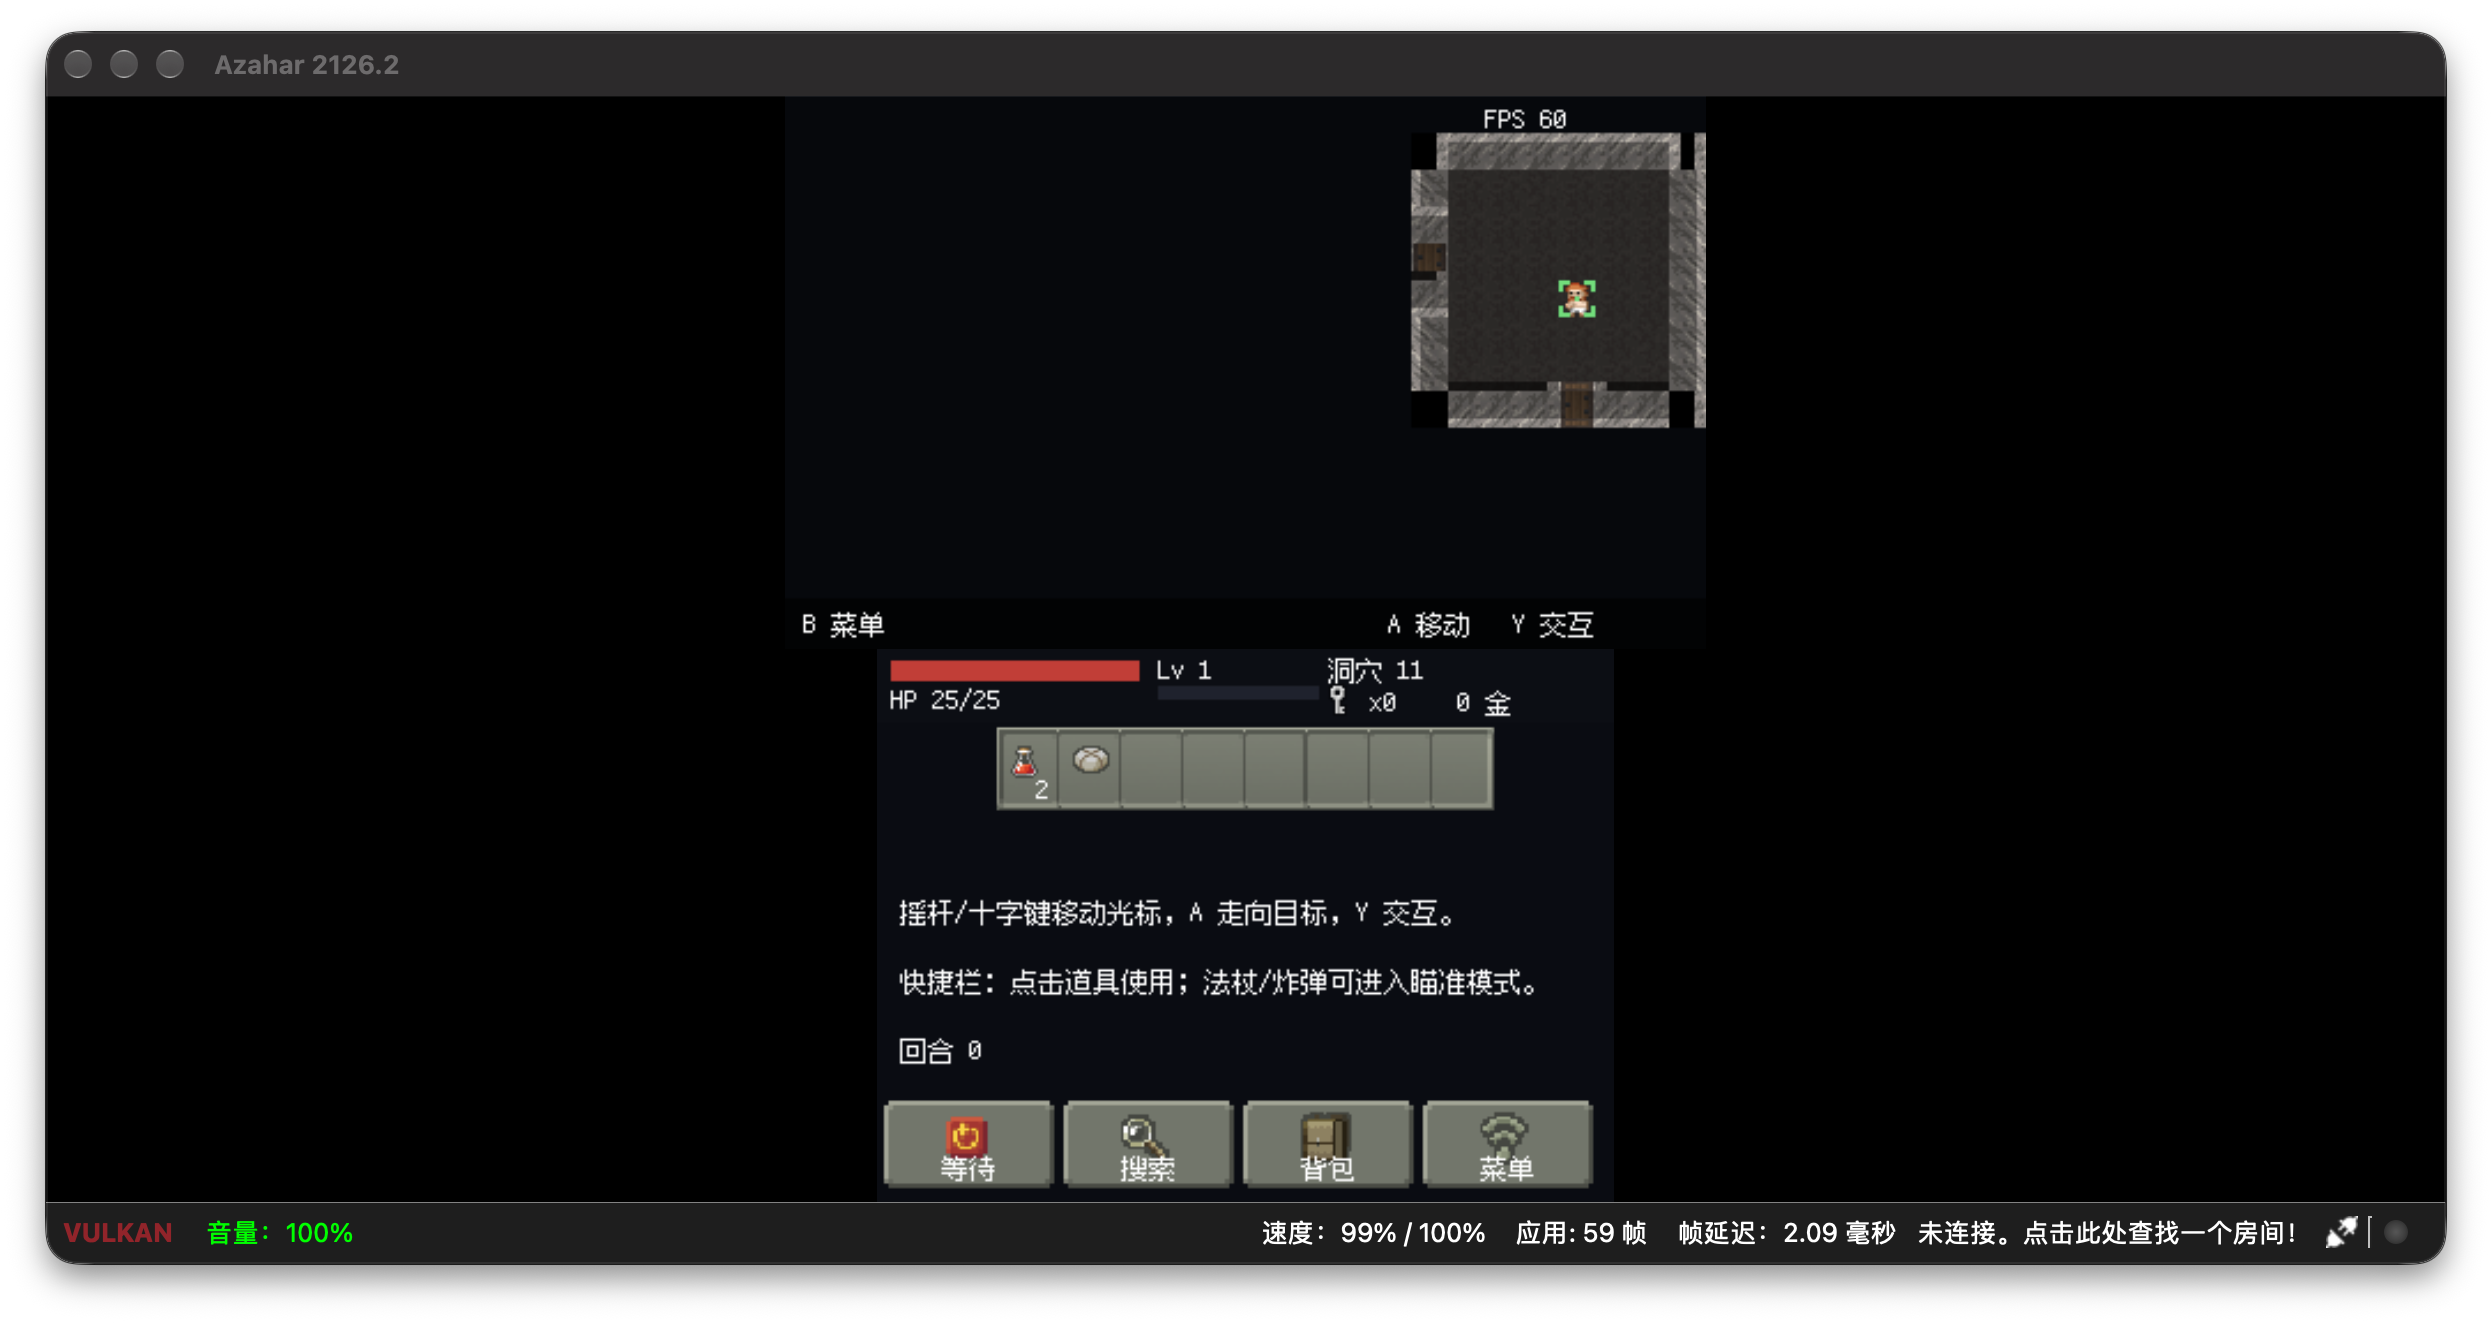
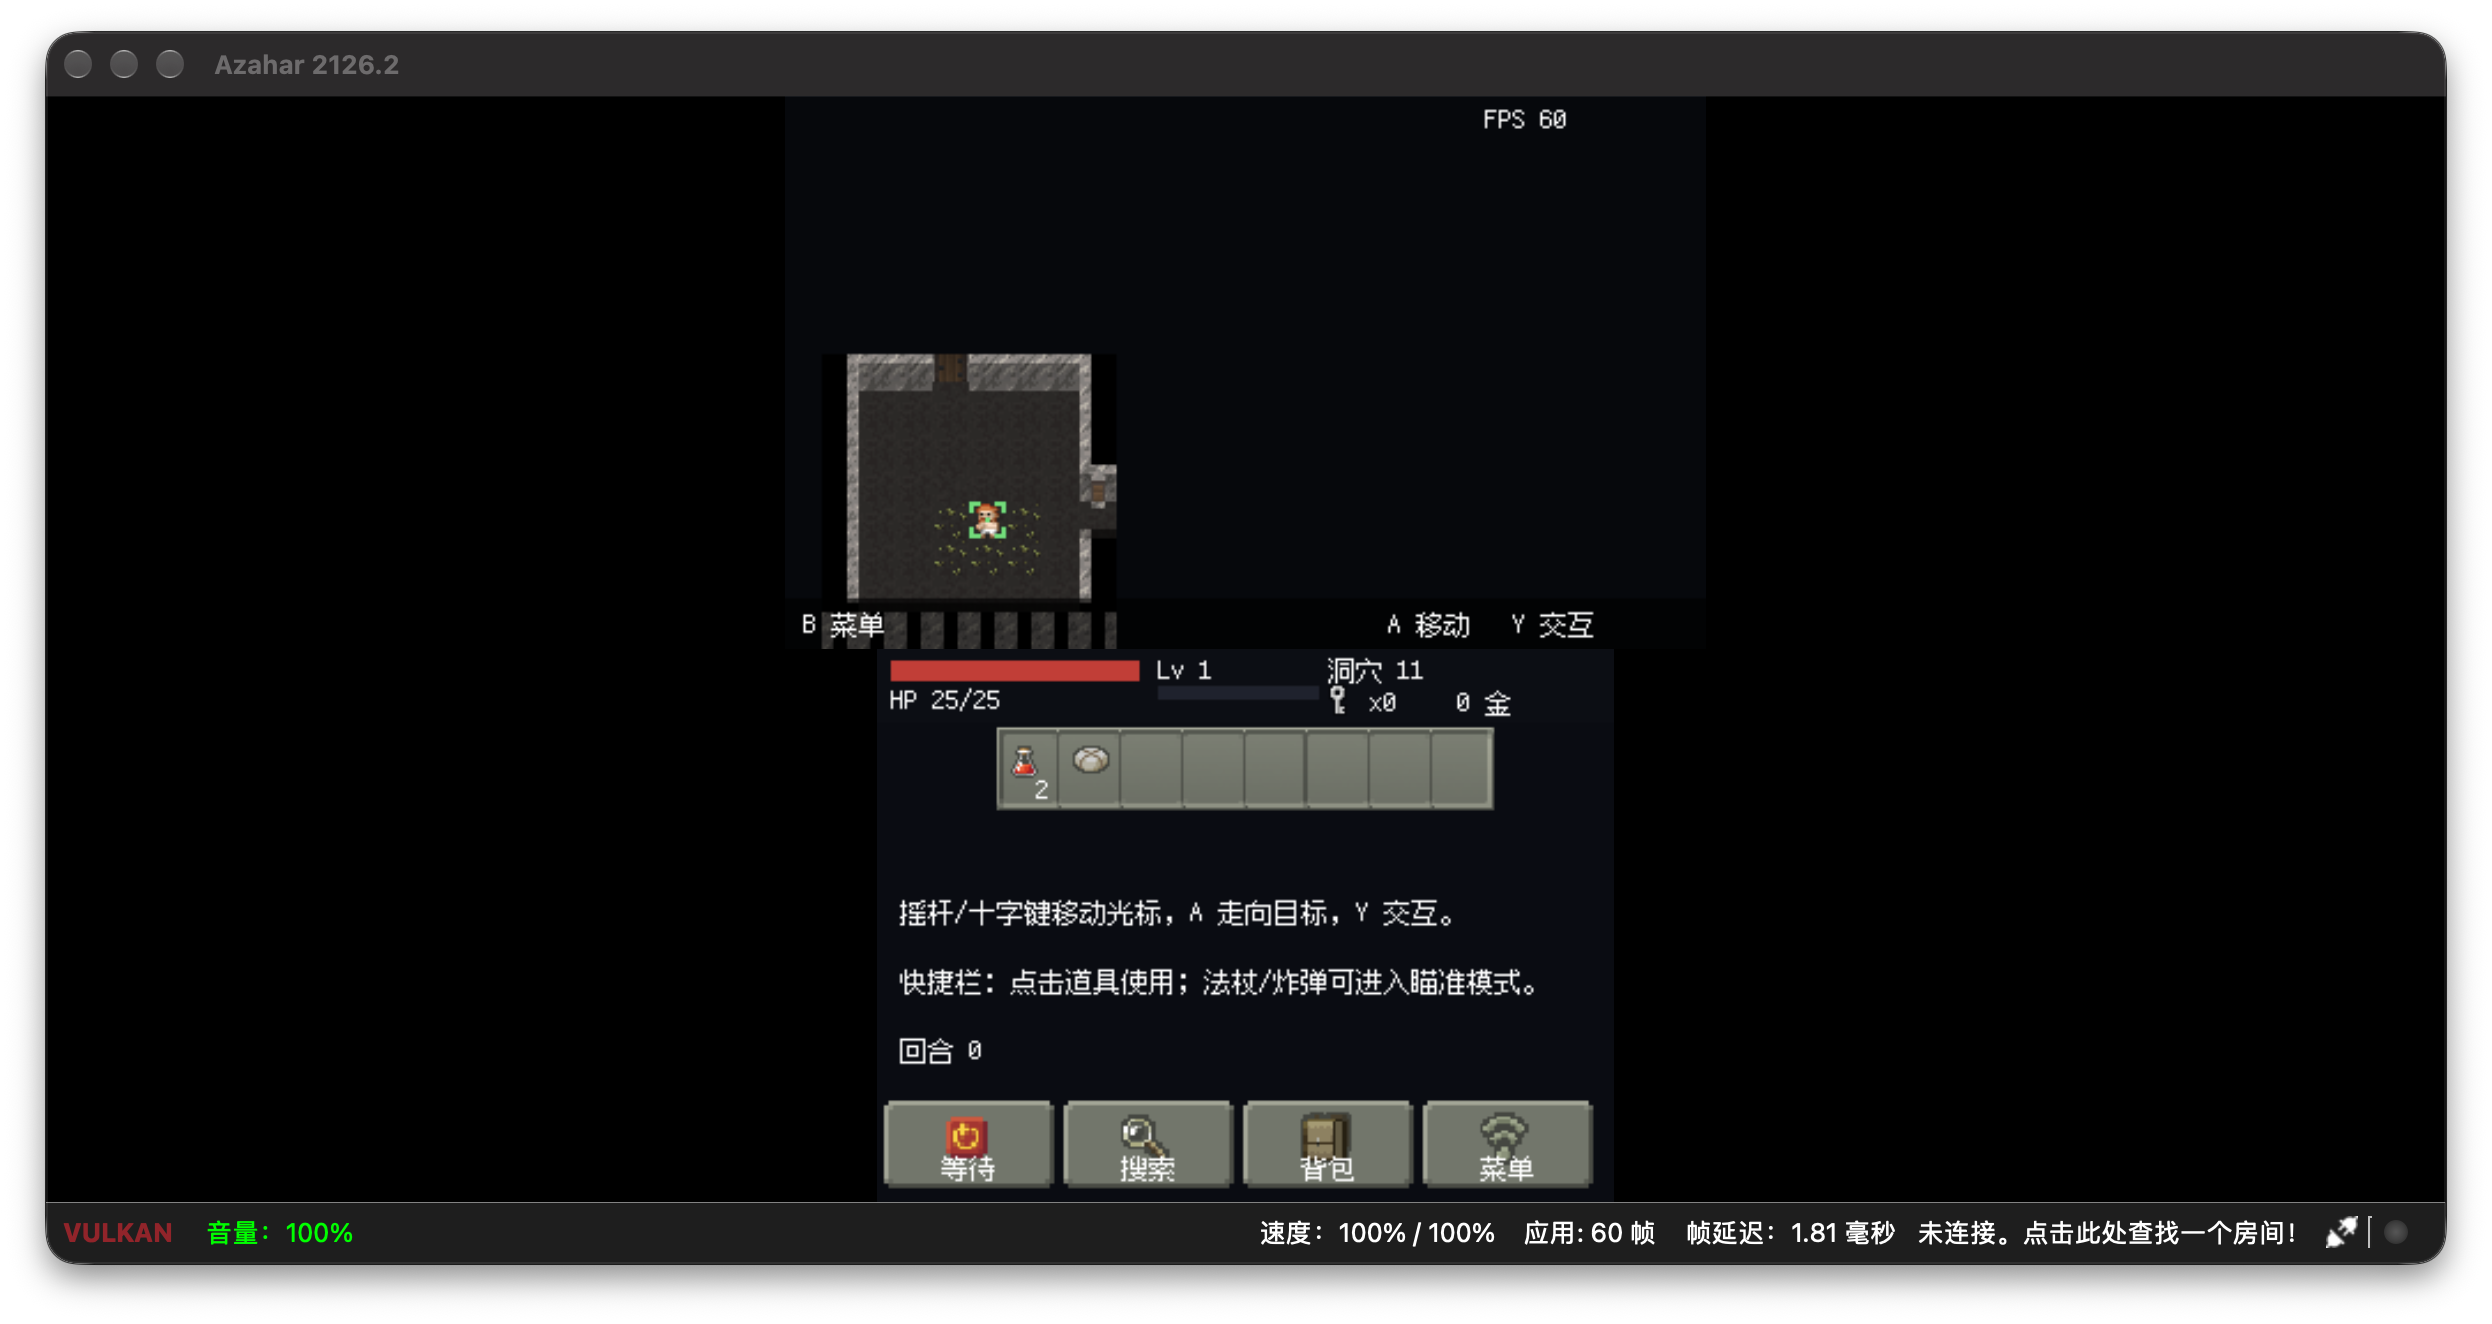
walls/doors: use SPD's separate internal-wall and side-door materials
- raised wall (80..83) only when the cell below is not a wall
- wall cells with a wall below use the internal wall-top set (144..159)
- door in a vertical wall uses the sideways threshold (116) plus the
  side-door face above it (227/228); no rotation anywhere
- wall above a door uses RAISED_WALL_DOOR (88)
- debug scene 77 for locked side-door inspection; refresh screenshots

Changed region(s): [[0.5562, 0.0929, 0.7107, 0.3406], [0.309, 0.2477, 0.4635, 0.4955], [0.4944, 0.898, 0.7416, 0.96]]

diff --git a/source/game_screen.cpp b/source/game_screen.cpp
@@ -173,33 +173,18 @@ static void draw_map() {
         // Doors are drawn below with the correct orientation.
         continue;
       } else if (wall_like(tt)) {
-        bool open_above = (y > 0 && !wall_like(G.tiles[y - 1][x]));
-        bool open_below = (y + 1 < MH && !wall_like(G.tiles[y + 1][x]));
-        bool open_left = (x > 0 && !wall_like(G.tiles[y][x - 1]));
-        bool open_right = (x + 1 < MW && !wall_like(G.tiles[y][x + 1]));
-        if (open_above || open_below || open_left || open_right) {
-          // The raised wall sprite is a face with its light cap at the top.
-          // Rotate it so the cap faces away from the room:
-          //   floor below -> 0deg, floor above -> 180deg,
-          //   floor right (wall on the left) -> -90deg,
-          //   floor left (wall on the right) -> +90deg.
-          int idx = 80;
-          float angle = 0.0f;
-          if (open_below) {
-            angle = 0.0f;
-            if (open_right) idx += 1;
-            if (open_left) idx += 2;
-          } else if (open_above) {
-            angle = (float)M_PI;
-            if (open_left) idx += 1;
-            if (open_right) idx += 2;
-          } else if (open_right) {
-            angle = -(float)M_PI * 0.5f;
-          } else {
-            angle = (float)M_PI * 0.5f;
-          }
-          draw_cell_rot(A_tiles[G.region()], (idx % 16) * 16, (idx / 16) * 16,
-                        16, 16, tx, ty, 1.0f, angle, tint);
+        // SPD: raised front face only when there is no wall below.
+        bool below_wall = (y + 1 < MH && wall_like(G.tiles[y + 1][x]));
+        if (!below_wall) {
+          uint8_t below_tile = (y + 1 < MH) ? G.tiles[y + 1][x] : T_WALL;
+          bool below_door = (below_tile == T_DOOR ||
+                             below_tile == T_DOOR_OPEN ||
+                             below_tile == T_DOOR_LOCKED);
+          int idx = below_door ? 88 : 80;  // RAISED_WALL_DOOR / RAISED_WALL
+          if (x + 1 >= MW || !wall_like(G.tiles[y][x + 1])) idx += 1;
+          if (x <= 0 || !wall_like(G.tiles[y][x - 1])) idx += 2;
+          draw_cell(A_tiles[G.region()], (idx % 16) * 16, (idx / 16) * 16,
+                    16, 16, tx, ty, 1, 1, tint);
         }
       } else if (tt == T_WATER) {
         // +1 top land, +2 right, +4 bottom, +8 left (SPD stitchWaterTile).
@@ -229,10 +214,17 @@ static void draw_map() {
         continue;
       uint32_t tint = G.vis[y][x] ? 0 : 0x707070FF;
       float tx = (float)(x * 16 - camx), ty = (float)(y * 16 - camy);
-      // SPD draws all door variants as standing vertical panels.
-      int idx = tt == T_DOOR_OPEN ? 113 : (tt == T_DOOR_LOCKED ? 114 : 112);
-      draw_cell(A_tiles[G.region()], (idx % 16) * 16, (idx / 16) * 16,
-                16, 16, tx, ty, 1, 1, tint);
+      bool above_wall = (y > 0 && wall_like(G.tiles[y - 1][x]));
+      if (above_wall) {
+        // Door in a vertical wall: SPD passes the cell ABOVE to
+        // getRaisedDoorTile, which selects the sideways threshold.
+        draw_cell(A_tiles[G.region()], (116 % 16) * 16, (116 / 16) * 16,
+                  16, 16, tx, ty, 1, 1, tint);
+      } else {
+        int idx = tt == T_DOOR_OPEN ? 113 : (tt == T_DOOR_LOCKED ? 114 : 112);
+        draw_cell(A_tiles[G.region()], (idx % 16) * 16, (idx / 16) * 16,
+                  16, 16, tx, ty, 1, 1, tint);
+      }
     }
   }
 
@@ -244,12 +236,15 @@ static void draw_map() {
       uint8_t below = (y + 1 < MH) ? G.tiles[y + 1][x] : T_WALL;
       uint32_t tint = G.vis[y][x] ? 0 : 0x707070FF;
       float tx = (float)(x * 16 - camx), ty = (float)(y * 16 - camy);
-      bool open_up = (y > 0 && !wall_like(G.tiles[y - 1][x]));
-      bool open_dn = (y + 1 < MH && !wall_like(G.tiles[y + 1][x]));
-      bool open_lf = (x > 0 && !wall_like(G.tiles[y][x - 1]));
-      bool open_rt = (x + 1 < MW && !wall_like(G.tiles[y][x + 1]));
-      if (wall_like(tt) && wall_like(below) && !open_up && !open_dn &&
-          !open_lf && !open_rt) {
+      if (wall_like(tt) && (below == T_DOOR || below == T_DOOR_LOCKED ||
+                            below == T_DOOR_OPEN)) {
+        // Wall cell directly above a door: SPD's side-door face.
+        if (below == T_DOOR || below == T_DOOR_LOCKED) {
+          int di = below == T_DOOR_LOCKED ? 228 : 227;
+          draw_cell(A_tiles[G.region()], (di % 16) * 16, (di / 16) * 16,
+                    16, 16, tx, ty, 1, 1, tint);
+        }
+      } else if (wall_like(tt) && wall_like(below)) {
         // Wall top surface, stitched with neighbours (SPD stitchInternalWallTile).
         int right = (x + 1 < MW && wall_like(G.tiles[y][x + 1])) ? 1 : 0;
         int rb = (x + 1 < MW && y + 1 < MH && wall_like(G.tiles[y + 1][x + 1])) ? 1 : 0;

diff --git a/source/main.cpp b/source/main.cpp
@@ -766,6 +766,30 @@ int main() {
           G.recompute_fov();
           G.demo_lock = true;
         }
+        else if (want == 77) {
+          start_new_game(0);
+          int found = -1;
+          for (int y = 1; y < MH - 1 && found < 0; y++)
+            for (int x = 1; x < MW - 1; x++)
+              if (G.tiles[y][x] == T_DOOR_LOCKED) { found = y * MW + x; break; }
+          if (found >= 0) {
+            int tx = found % MW, ty = found / MW;
+            // stand next to it, preferring the room side
+            static const int DX[4] = {1, -1, 0, 0}, DY[4] = {0, 0, 1, -1};
+            for (int k = 0; k < 4; k++) {
+              int nx = tx + DX[k], ny = ty + DY[k];
+              if (G.walkable(nx, ny)) {
+                G.px = nx; G.py = ny; G.pvx = (float)nx; G.pvy = (float)ny;
+                break;
+              }
+            }
+            G.keys = 5;
+          }
+          for (int y = 0; y < MH; y++)
+            for (int x = 0; x < MW; x++) G.seen[y][x] = G.vis[y][x] = true;
+          G.recompute_fov();
+          G.demo_lock = true;
+        }
         else if (want == 76) {
           start_new_game(0);
           G.floor = 14;

diff --git a/README.md b/README.md
@@ -377,12 +377,13 @@ tools/venv/bin/python tools/item_audit.py
 
 Map tiles follow `DungeonTileSheet.java` instead of the old flat-wall look:
 
-- walls use the **raised-wall** group (`80..83`) rotated to face the room:
-  light cap up for a top wall, down for a bottom wall, left/right for side
-  walls; interior cells use the top-surface layer (`144..159`) and wall/floor
-  joins get a 4px contact shadow (`192..207`),
-- doors are always standing **vertical panels** (`112/113/114`) as in SPD,
-  placed in the wall opening rather than inside the room,
+- wall cells with floor **below** use the raised front face (`80..83`); cells
+  with another wall below use the **internal-wall top material** (`144..159`).
+  Nothing is rotated: these are separate SPD tiles for front faces vs. wall
+  tops. Wall/floor joins get a 4px contact shadow (`192..207`),
+- doors in horizontal walls use `112/113/114`; doors in vertical walls use the
+  separate **side-door** material (`116` threshold plus `227/228` above), also
+  no rotation,
 - doors use the raised door frames (`112` closed / `113` open),
 - water uses the 16-way stitched tiles (`32..47`),
 - chests / locked chests / tombs use `ItemSpriteSheet` cells `36 / 37 / 34`,
@@ -442,6 +443,7 @@ Drop `sdmc:/3ds/spd/scene.txt` (Azahar:
 | 74 | Generate all floors and print room/mob/item/door audit |
 | 75 | Spawn the new depth-rotation enemies for a visual check |
 | 76 | Clean enemy gallery (no items/features) |
+| 77 | Jump next to a locked side door |
 | 71 | Pause menu with talent progress |
 | 40 | Backpack with rings/missiles/seeds |
 | 41 | Ring detail panel |
